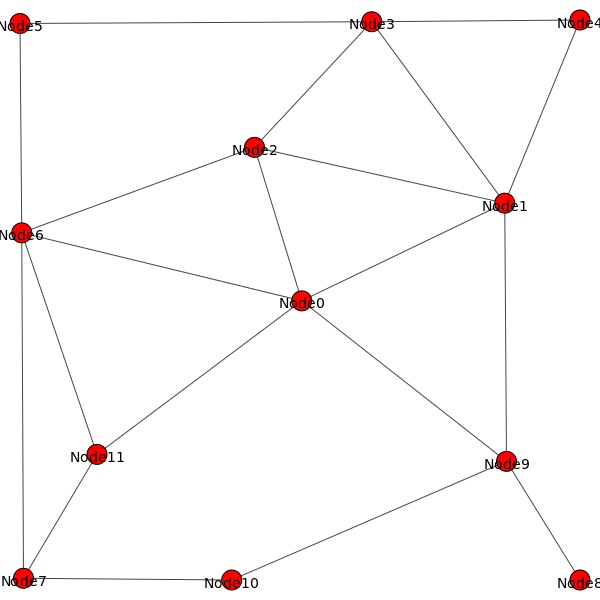
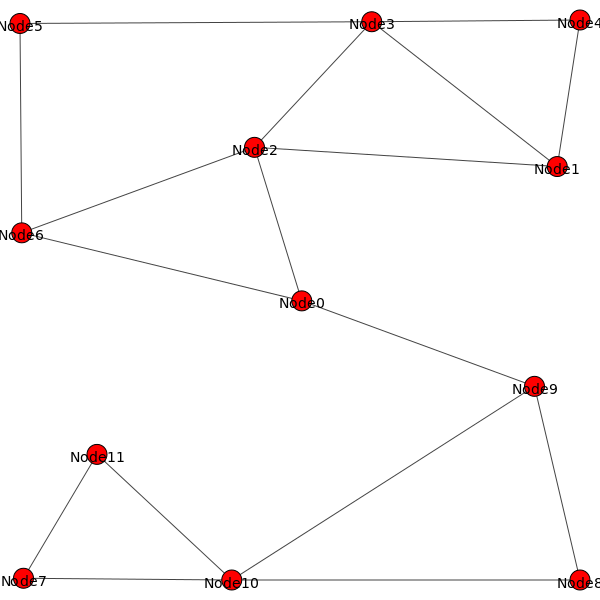
Adapted to new graph, new structure and 3D terrain

diff --git a/src/floor_nav/tasks/TaskGoTo.cpp b/src/floor_nav/tasks/TaskGoTo.cpp
@@ -32,14 +32,14 @@ TaskIndicator TaskGoTo::iterate()
             cfg.goal_x,cfg.goal_y,r,alpha*180./M_PI);
 #endif
     if (fabs(alpha) > M_PI/9) {
-        double rot = ((alpha>0)?+1:-1)*M_PI;
+        double rot = ((alpha>0)?+1:-1)*cfg.max_angular_velocity;
 #ifdef DEBUG_GOTO
         printf("Cmd v %.2f r %.2f\n",0.,rot);
 #endif
         env->publishVelocity(0,rot);
     } else {
         double vel = cfg.k_v * r;
-        double rot = cfg.k_alpha*alpha;
+        double rot = std::max(std::min(cfg.k_alpha*alpha,cfg.max_angular_velocity),-cfg.max_angular_velocity);
         if (vel > cfg.max_velocity) vel = cfg.max_velocity;
 #ifdef DEBUG_GOTO
         printf("Cmd v %.2f r %.2f\n",vel,rot);

diff --git a/src/floor_graph/nodes/build_graph.py b/src/floor_graph/nodes/build_graph.py
@@ -11,15 +11,16 @@ rospy.sleep(0.5);
 
 g = ig.Graph();
 g.add_vertices(12)
-g.add_edges([(0,i) for i in [1,2,6,9,11]])
-g.add_edges([(1,i) for i in [2,3,4,9]])
+g.add_edges([(0,i) for i in [2,6,9]])
+g.add_edges([(1,i) for i in [2,3,4]])
 g.add_edges([(2,i) for i in [3,6]])
 g.add_edges([(3,i) for i in [4,5]])
 g.add_edges([(5,i) for i in [6]])
-g.add_edges([(6,i) for i in [7,11]])
+# g.add_edges([(6,i) for i in []])
 g.add_edges([(7,i) for i in [10,11]])
-g.add_edges([(8,i) for i in [9]])
+g.add_edges([(8,i) for i in [9, 10]])
 g.add_edges([(9,i) for i in [10]])
+g.add_edges([(10,i) for i in [11]])
 # 11, 10 and 4 do not connect to a higher-index vertex
 
 vx=[0.0] * len(g.vs)

diff --git a/src/floor_nav/missions/test_graph.py b/src/floor_nav/missions/test_graph.py
@@ -19,9 +19,9 @@ tc.WaitForAuto()
 try:
     tc.Wait(duration=1.0)
     # Hand-made hamiltonian path
-    node_seq = [0, 2, 1, 4, 3, 5, 6, 11, 7, 10, 9, 8]
+    node_seq = [2, 1, 4, 3, 5, 6, 0, 9, 8, 10, 7, 11]
     for node in node_seq:
-        tc.GoTo(goal_x=g.vs[node]["x"],goal_y=g.vs[node]["y"])
+        tc.GoTo(goal_x=g.vs[node]["x"],goal_y=g.vs[node]["y"], max_velocity=0.5, k_v=1.0, max_angular_velocity=1.0)
     tc.Wait(duration=1.0)
 
 except TaskException, e:

diff --git a/src/floor_graph/nodes/viz_graph.py b/src/floor_graph/nodes/viz_graph.py
@@ -15,6 +15,7 @@ rospy.sleep(1.0);
 ma = MarkerArray()
 now = rospy.Time.now()
 
+print get_pkg_dir('floor_graph')+"/graph.picklez"
 g = ig.Graph.Read_Picklez(get_pkg_dir('floor_graph')+"/graph.picklez")
 id = 0
 for v in g.vs:
@@ -39,6 +40,7 @@ for v in g.vs:
 for e in g.es:
     v0 = g.vs[e.source]
     v1 = g.vs[e.target]
+    print (e.source,e.target)
     marker = Marker()
     marker.header.stamp = now
     marker.header.frame_id = "/world"
